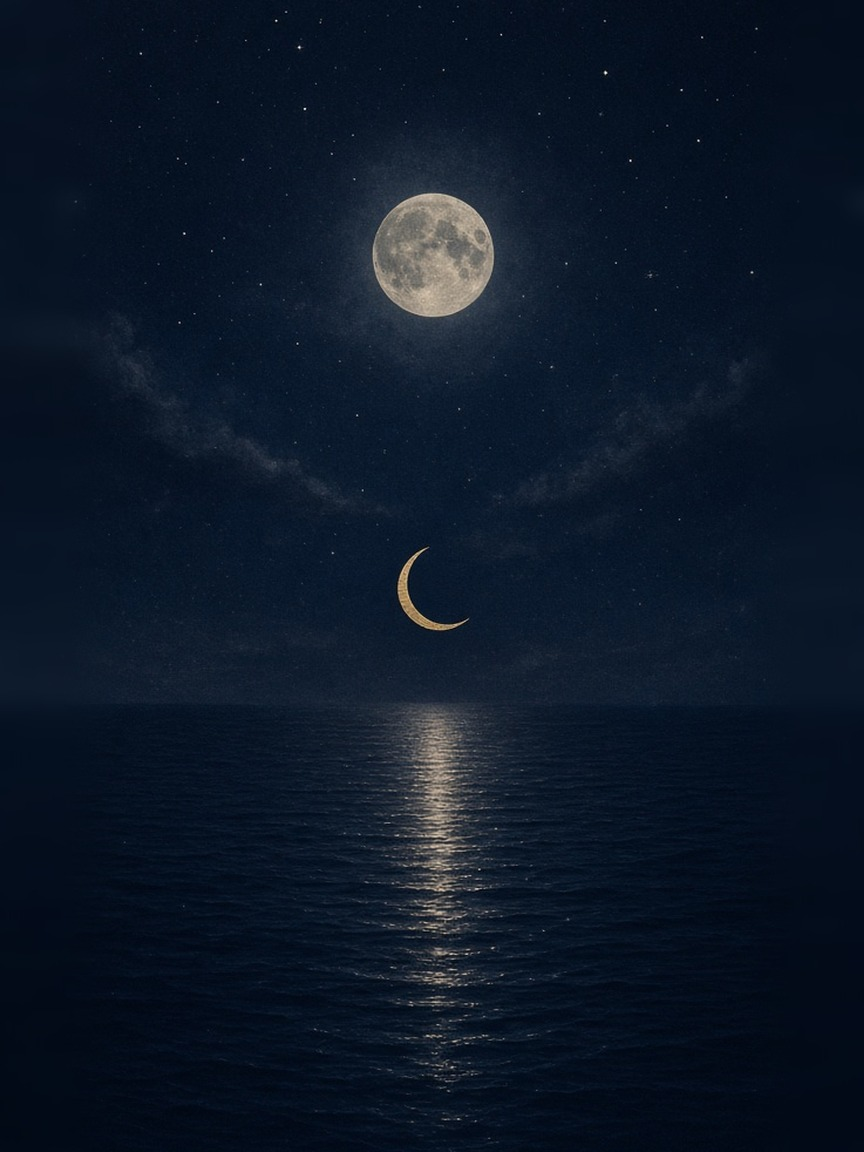
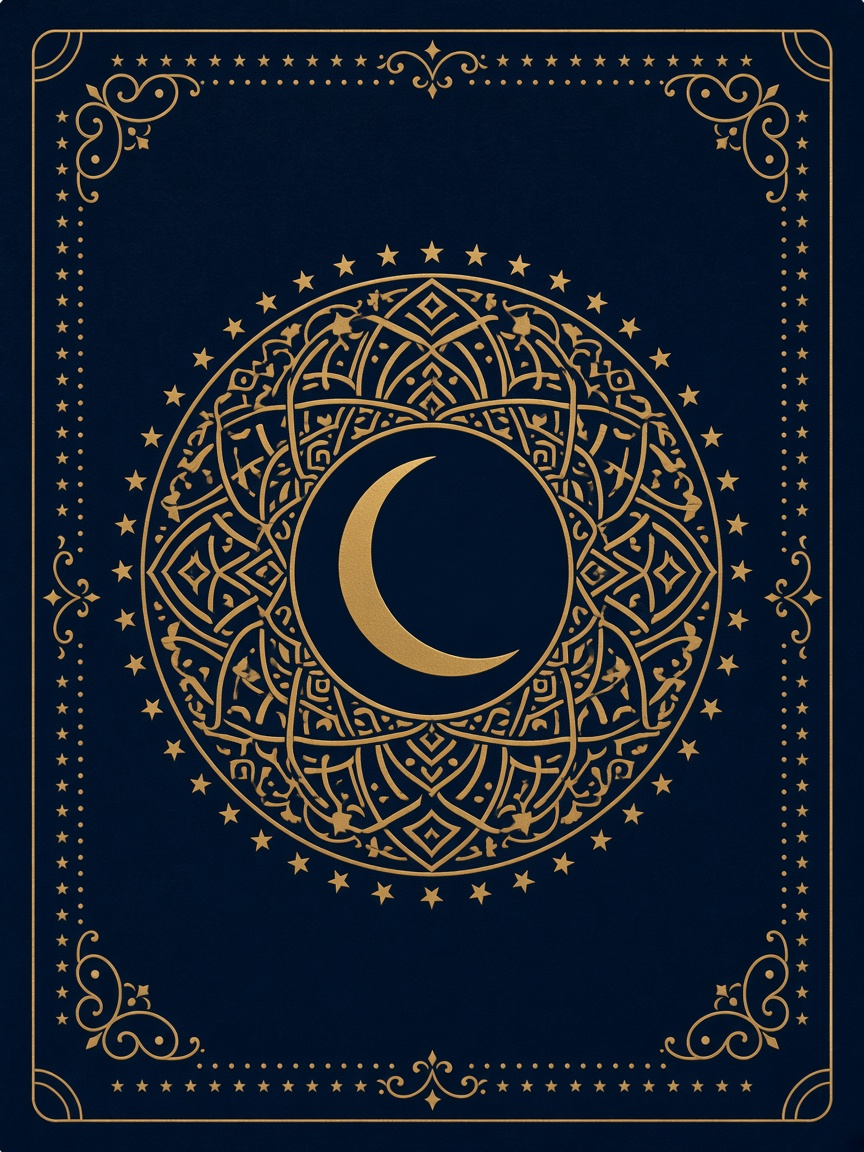
타로 첫 화면의 카드 뒷면을 금색 테두리와 초승달 장식이 있는 무늬로 바꿨습니다.

Changed region(s): [[0.0312, 0.0, 0.9688, 1.0]]

diff --git a/index.html b/index.html
@@ -208,7 +208,7 @@
           <!-- 타로에서만 보입니다. 처음에는 뒷면이고, 뒤집으면 앞면과 질문이 나옵니다. -->
           <div id="tarot_stage" class="tarot_stage">
             <div class="tarot_frame">
-              <img id="tarot_image" class="tarot_image" src="images/tarot/back.jpg" alt="덮인 타로 카드" width="768" height="1024">
+              <img id="tarot_image" class="tarot_image" src="images/tarot/back.jpg?v=20261116m" alt="덮인 타로 카드" width="768" height="1024">
             </div>
           </div>
 
@@ -453,7 +453,7 @@
   <script src="js/vignettes.js"></script>
   <script src="js/faces.js"></script>
   <script src="js/tarot_cards.js?v=20261115r"></script>
-  <script src="js/tarot.js?v=20261115q"></script>
+  <script src="js/tarot.js?v=20261116m"></script>
   <script src="js/validate.js"></script>
   <script src="js/picker.js?v=20261115k"></script>
   <script src="js/storage.js"></script>

diff --git a/js/tarot.js b/js/tarot.js
@@ -70,7 +70,7 @@
         return;
       }
       image.alt = "덮인 타로 카드";
-      image.src = root.TAROT_FOLDER + root.TAROT_BACK + "?v=20261115q";
+      image.src = root.TAROT_FOLDER + root.TAROT_BACK + "?v=20261116m";
       reading.hidden = true;
       show_tarot_status("");
     } catch (error) {
